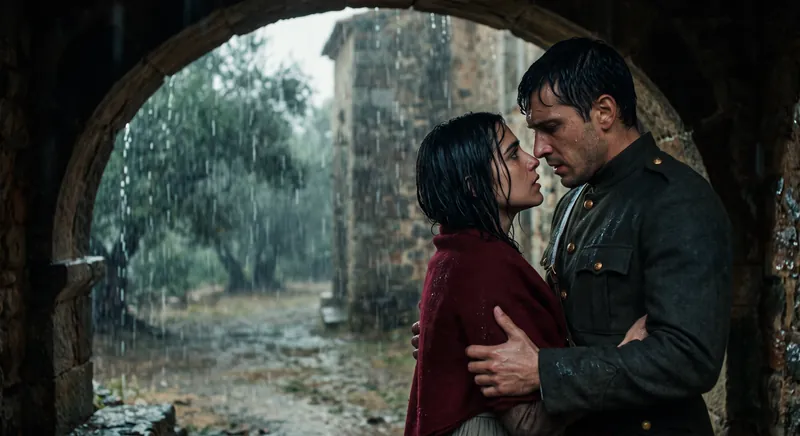
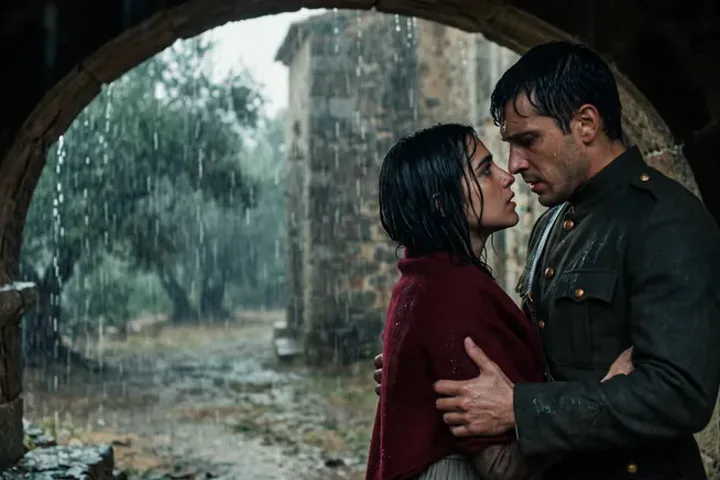
LP /romance-historico: 3a rodada de ajustes de QA (cenas edge-to-edge, ordem mobile, copy)
- sec-lead da secao Portas: "Trinta" vira "Muitos" (o eyebrow ja tinha
  perdido a contagem de 30 na rodada anterior, ficou inconsistente)
- Eyebrow do hero: tira "brasileiro", fica so "Romance historico ·
  Obras de Domenico Falco"
- As 3 cenas dos cards de porta agora usam o mesmo padrao dos covers
  da home/categoria (.book-cover): wrapper com aspect-ratio fixo (3:2)
  e overflow:hidden, img em object-fit:cover. Antes era img direto com
  margem negativa tentando sangrar o padding do card, mas o
  max-width:100% global da regra "img" travava a largura de volta e
  sobrava uma faixa de ~49px sem imagem na borda direita de cada
  card -- media no browser antes e depois de corrigir. Reenquadrei e
  recomprimi as 3 fotos pra 720x480 (3:2 uniforme, antes cada uma
  tinha sua propria proporcao nativa, de 1.46 a 1.83)
- Genero: no mobile empilhado, a caixa "Romance historico" (destaque)
  vem antes de "Romance de epoca" via order no CSS; desktop lado a
  lado continua na ordem original do HTML

diff --git a/romance-historico/index.html b/romance-historico/index.html
@@ -180,10 +180,18 @@
   .portas h2{font-size:clamp(26px,3.2vw,38px);margin:12px 0 16px;}
   .sec-lead{font-size:18px;color:var(--text-muted);max-width:52em;margin-bottom:38px;}
   .grid-portas{display:grid;grid-template-columns:repeat(3,1fr);gap:26px;align-items:start;}
-  .porta{background:var(--card);border:1px solid var(--card-border);border-radius:3px;padding:28px 24px;display:flex;flex-direction:column;}
+  .porta{background:var(--card);border:1px solid var(--card-border);border-radius:3px;display:flex;flex-direction:column;overflow:hidden;}
   .capa{width:132px;height:auto;border:1px solid var(--card-border);border-radius:2px;margin-bottom:20px;}
-  /* Cena: largura total do card, sangrando ate a borda interna do padding */
-  .cena{width:calc(100% + 48px);margin:-28px -24px 20px;height:auto;border-radius:3px 3px 0 0;}
+  /* Cena: mesmo padrao dos covers da home/categoria (.book-cover) -- caixa com
+     aspect-ratio fixo e overflow:hidden, img em object-fit:cover. Antes era
+     img direto com margem negativa pra sangrar o padding do card, mas o
+     max-width:100% global (regra "img" no :root) trava a largura de volta e
+     sobra uma faixa sem imagem na borda. A caixa evita essa classe de bug e
+     garante a mesma proporcao (3:2) nas tres cenas, nao a proporcao nativa de
+     cada foto (que variava de 1.46 a 1.83). */
+  .cena-wrap{aspect-ratio:3/2;overflow:hidden;background:#000;}
+  .cena{width:100%;height:100%;object-fit:cover;display:block;}
+  .porta-body{padding:24px;display:flex;flex-direction:column;flex:1;}
   .ambient{font-family:'Cinzel',serif;font-size:12px;letter-spacing:.2em;text-transform:uppercase;color:var(--gold);margin-bottom:10px;}
   .perfil{font-size:15px;color:var(--cost);font-style:italic;margin-bottom:4px;}
   .porta h3{font-size:24px;margin-bottom:14px;}
@@ -240,6 +248,12 @@
   @media (max-width:900px){
     .genero{padding:44px 0;}
     .grid-genero{grid-template-columns:1fr;gap:16px;}
+    /* No mobile empilhado, "Romance historico" (a caixa em destaque, o nosso
+       catalogo) vem primeiro que "Romance de epoca" (a comparacao). No
+       desktop lado a lado a ordem de leitura esquerda->direita continua a
+       mesma do HTML (epoca, depois historico) -- so a pilha muda. */
+    .col-genero{order:2;}
+    .col-genero.destaque{order:1;}
   }
   .fecho{font-family:'Cinzel',serif;font-size:clamp(19px,2.4vw,26px);line-height:1.4;color:var(--gold-bright);max-width:24em;}
 
@@ -432,7 +446,7 @@
 <section class="hero">
   <div class="wrap hero-inner">
     <div class="hero-copy">
-      <p class="eyebrow">Romance histórico brasileiro · Obras de Domenico Falco</p>
+      <p class="eyebrow">Romance histórico · Obras de Domenico Falco</p>
       <h1>Até onde você iria pela sua <em>família</em>?<br>E o que essa escolha lhe custaria?</h1>
       <p class="lead">Romance histórico de alta imersão, em que o passado não é cenário decorativo: é o que força pessoas comuns a decisões impossíveis. Guerra, exílio, fome, ocupação. Ninguém sai ileso.</p>
       <a class="quick-nav" href="#portas">Não sabe por onde começar? <strong>Veja as três portas de entrada</strong> <span class="seta" aria-hidden="true">→</span></a>
@@ -512,35 +526,41 @@
   <div class="wrap">
     <p class="eyebrow">Catálogo</p>
     <h2>Por onde começar</h2>
-    <p class="sec-lead">Trinta títulos paralisam. Escolha o chão histórico que te interessa e comece por ele: cada um destes três abre um caminho diferente dentro do mesmo catálogo.</p>
+    <p class="sec-lead">Muitos títulos paralisam. Escolha o chão histórico que te interessa e comece por ele: cada um destes três abre um caminho diferente dentro do mesmo catálogo.</p>
 
     <div class="grid-portas">
 
       <article class="book-card porta">
-        <img class="cena" src="/romance-historico/media/o-siciliano-matteo.webp" alt="Matteo, personagem de O Siciliano, num cafezal ao amanhecer" width="800" height="446" loading="lazy" decoding="async">
+        <div class="cena-wrap"><img class="cena" src="/romance-historico/media/o-siciliano-matteo.webp" alt="Matteo, personagem de O Siciliano, num cafezal ao amanhecer" width="720" height="480" loading="lazy" decoding="async"></div>
+        <div class="porta-body">
         <p class="ambient">Sicília e Brasil, 1880 a 1943</p>
         <p class="perfil">O épico de família</p>
         <h3>O Siciliano</h3>
         <p class="gancho">Uma disputa de terras custa o pai de Matteo. Ele cruza o Atlântico e recomeça do zero nas fazendas de café de Vassouras, no Rio de Janeiro, antes de a família se mudar para São Paulo. Décadas depois, volta à Sicília para acertar o que deixou por resolver.</p>
         <a class="btn" href="https://www.amazon.com.br/dp/B0D9WS272F?tag=falcojc-20&amp;ascsubtag=romance-historico-o-siciliano" target="_blank" rel="noopener">Ler O Siciliano</a>
+        </div>
       </article>
 
       <article class="book-card porta">
-        <img class="cena" src="/romance-historico/media/mestre-das-tormentas-fogueira.webp" alt="John Storm e Marisol numa praia à noite, junto a uma fogueira" width="800" height="546" loading="lazy" decoding="async">
+        <div class="cena-wrap"><img class="cena" src="/romance-historico/media/mestre-das-tormentas-fogueira.webp" alt="John Storm e Marisol numa praia à noite, junto a uma fogueira" width="720" height="480" loading="lazy" decoding="async"></div>
+        <div class="porta-body">
         <p class="ambient">Sete mares, a partir de 1700</p>
         <p class="perfil">A aventura do desconhecido</p>
         <h3>O Mestre das Tormentas</h3>
         <p class="gancho">Filho de uma cozinheira, criado nos becos de Londres. Dado como morto num naufrágio no Pacífico Sul, John Storm ressurge nas águas asiáticas e atravessa a Rota da Seda atrás do único caminho de volta que ainda importa: para casa, e para quem ele deixou para trás.</p>
         <a class="btn" href="https://www.amazon.com.br/dp/B08XYL4QZY?tag=falcojc-20&amp;ascsubtag=romance-historico-mestre-das-tormentas" target="_blank" rel="noopener">Ler O Mestre das Tormentas</a>
+        </div>
       </article>
 
       <article class="book-card porta">
-        <img class="cena" src="/romance-historico/media/amor-e-odio-clandestino.webp" alt="Casal abraçado sob a chuva, ele em uniforme militar, sob um arco de pedra" width="800" height="436" loading="lazy" decoding="async">
+        <div class="cena-wrap"><img class="cena" src="/romance-historico/media/amor-e-odio-clandestino.webp" alt="Casal abraçado sob a chuva, ele em uniforme militar, sob um arco de pedra" width="720" height="480" loading="lazy" decoding="async"></div>
+        <div class="porta-body">
         <p class="ambient">Andaluzia, anos 1930</p>
         <p class="perfil">O amor em tempo de guerra</p>
         <h3>Amor e Ódio</h3>
         <p class="gancho">Uma paixão proibida em famílias que a Guerra Civil Espanhola vai dilacerar. Enquanto um ditador sobe ao poder, cada escolha custa alguém, e ninguém escolhe sem pagar.</p>
         <a class="btn" href="https://www.amazon.com.br/dp/B0D8RTCPNP?tag=falcojc-20&amp;ascsubtag=romance-historico-amor-e-odio" target="_blank" rel="noopener">Ler Amor e Ódio</a>
+        </div>
       </article>
 
     </div>
